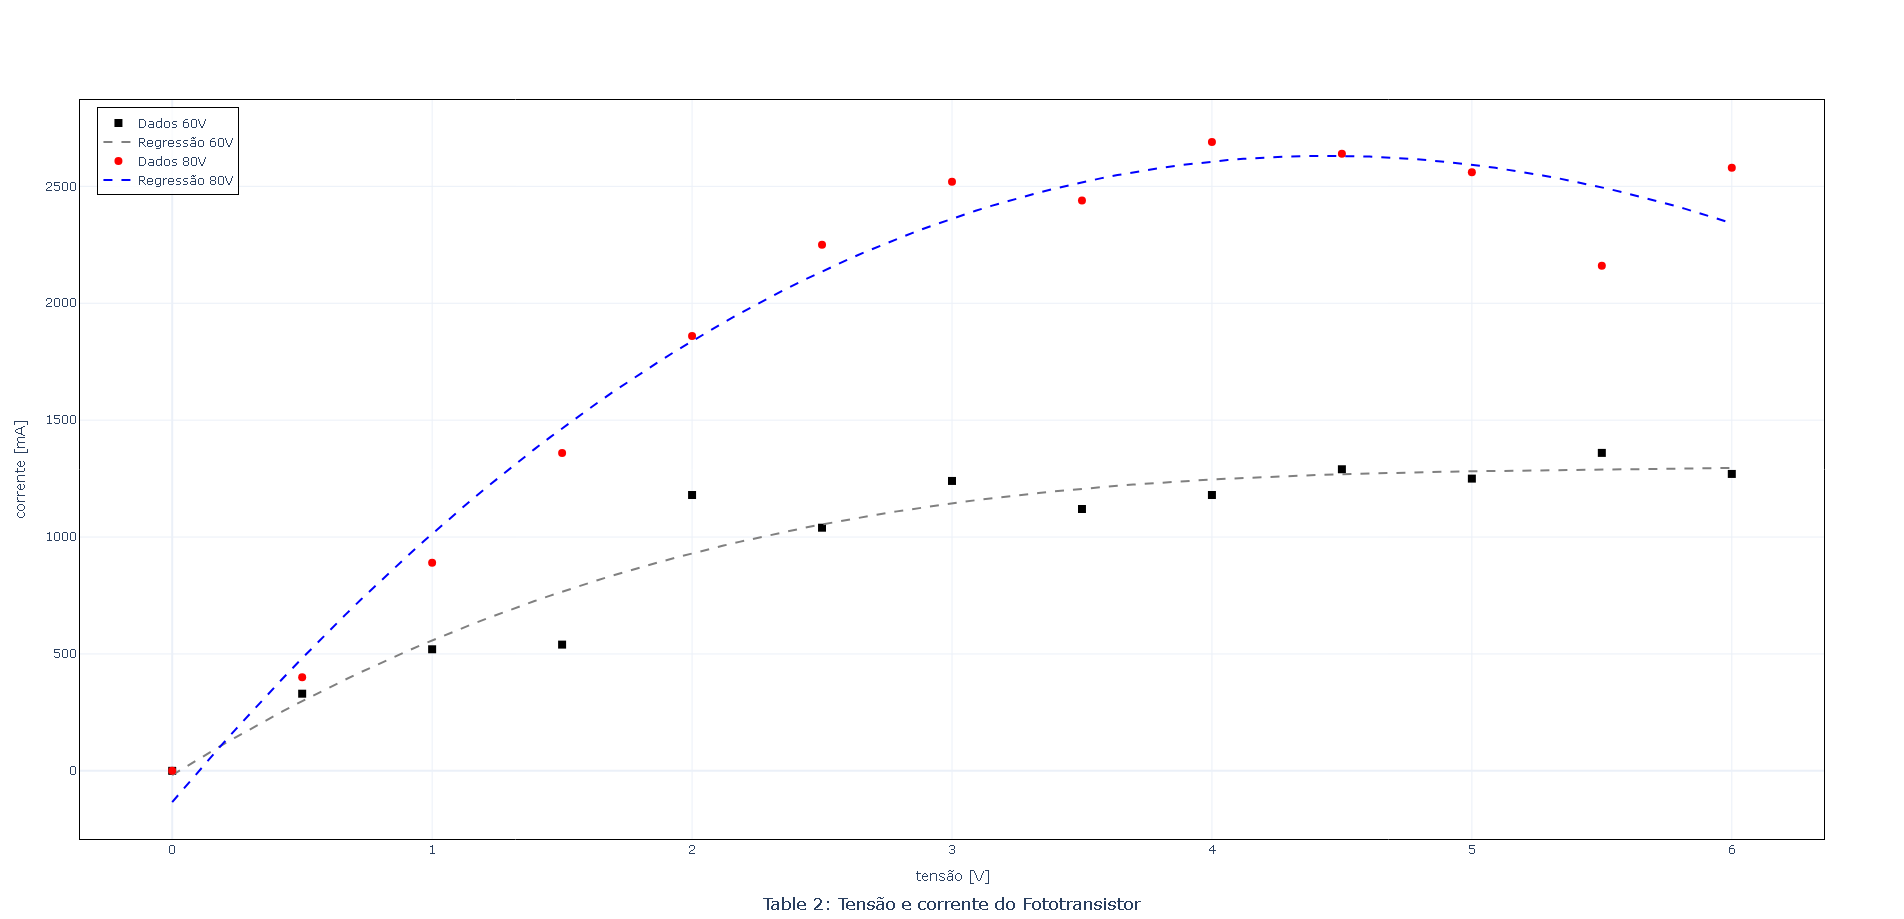
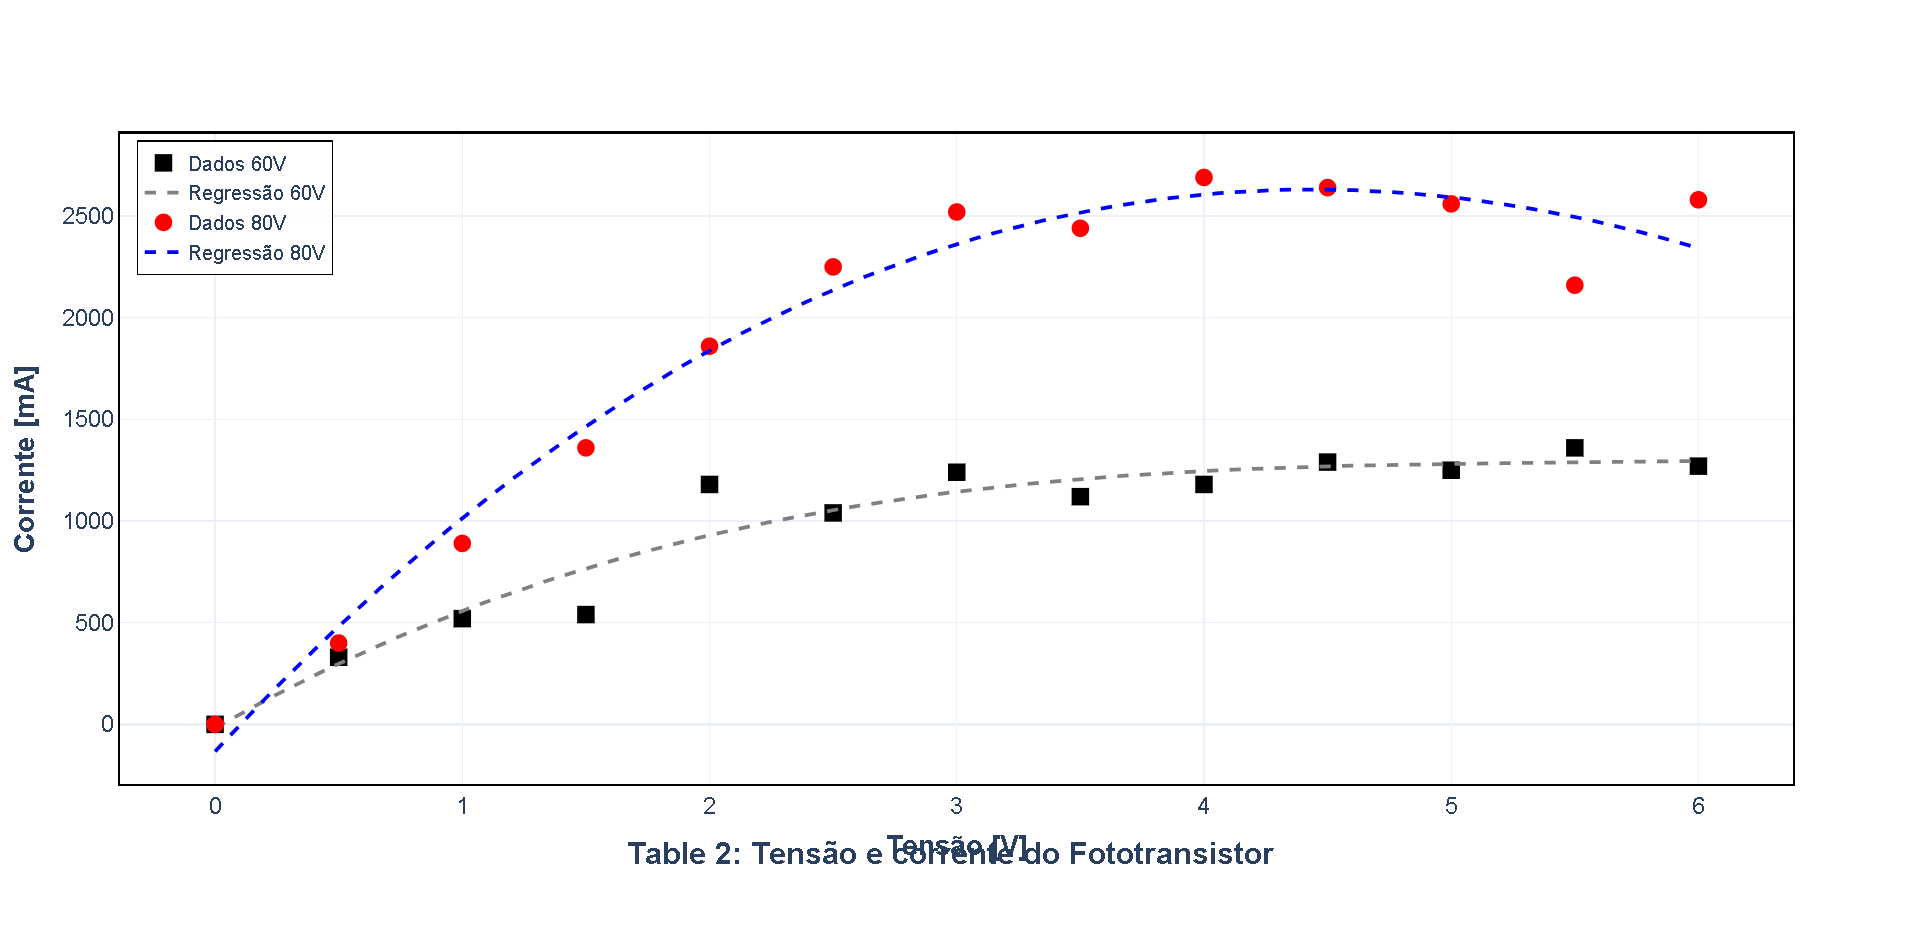
update(graph_scale): update graph scale and scale of elements

diff --git a/R5/tools/graphs.py b/R5/tools/graphs.py
@@ -1,8 +1,14 @@
 import plotly.graph_objects as go
+import numpy as np
 
-# Data transcribed from Table 1
-# Vd = Voltage at the Diode [V]
-# Id = Current (or proportional voltage) [V] as per the table
+# Configurações globais de estilo para facilitar alterações futuras
+FONTE_GERAL = dict(size=18, family="Arial")  # Aumenta todo o texto
+TAMANHO_MARKER = 14     # Aumenta os pontos
+LARGURA_LINHA = 4       # Aumenta a espessura da linha
+
+# ==========================================
+# GRÁFICO 1: Tabela 1 (Fotodiodo)
+# ==========================================
 
 vd = [
     0.0, 0.12, 0.4, 0.6, 0.8, 1.0, 1.2, 1.4, 
@@ -18,161 +24,150 @@ id_values = [
     19.11, 20.78, 22.52, 24.16, 25.82
 ]
 
-# Creating the Figure
-fig = go.Figure()
+fig1 = go.Figure()
 
-# Adding the trace (the line/points)
-fig.add_trace(go.Scatter(
+fig1.add_trace(go.Scatter(
     x=vd, 
     y=id_values, 
-    mode='lines+markers', # Shows both line and dots
+    mode='lines+markers',
     name='Experimental Data',
-    marker=dict(size=8, color='blue'),
-    line=dict(width=2, color='blue')
+    marker=dict(size=TAMANHO_MARKER, color='blue'),
+    line=dict(width=LARGURA_LINHA, color='blue')
 ))
 
-# Updating layout (Titles and Labels)
-fig.update_layout(
-    title='Table 1: Tensão e corrente do Fotodiodo',
-    xaxis_title='V_D [V]',
-    yaxis_title='I_D [V]',
-    template='plotly_white', # A clean white background
-    width=800, 
-    height=600
+fig1.update_layout(
+    title='<b>Table 1: Tensão e corrente do Fotodiodo</b>', # Negrito
+    xaxis_title='<b>V_D [V]</b>',
+    yaxis_title='<b>I_D [V]</b>',
+    template='plotly_white',
+    width=900,  # Aumentei um pouco a largura
+    height=700, # Aumentei um pouco a altura
+    font=FONTE_GERAL # Aplica a fonte maior em tudo
 )
 
-# Show the interactive graph
-fig.show()
+# Bordas mais visíveis nos eixos
+fig1.update_xaxes(showline=True, linewidth=2, linecolor='black', mirror=True)
+fig1.update_yaxes(showline=True, linewidth=2, linecolor='black', mirror=True)
 
-import plotly.graph_objects as go
-import numpy as np
+fig1.show()
 
-# --- 1. Dados da Tabela 2 ---
+
+# ==========================================
+# GRÁFICO 2: Tabela 2 (Fototransistor)
+# ==========================================
+
 v_fonte = np.array([0.0, 0.5, 1.0, 1.5, 2.0, 2.5, 3.0, 3.5, 4.0, 4.5, 5.0, 5.5, 6.0])
 
 # Corrente original em [A]
 id_60v_a = np.array([0.0, 0.33, 0.52, 0.54, 1.18, 1.04, 1.24, 1.12, 1.18, 1.29, 1.25, 1.36, 1.27])
 id_80v_a = np.array([0.0, 0.4, 0.89, 1.36, 1.86, 2.25, 2.52, 2.44, 2.69, 2.64, 2.56, 2.16, 2.58])
 
-# Conversão para [mA] (x1000)
+# Conversão para [mA]
 id_60v_ma = id_60v_a * 1000
 id_80v_ma = id_80v_a * 1000
 
-# --- 2. Cálculo da Regressão (Polinomial de 3º Grau) ---
-# Cria um eixo X mais "fino" (com mais pontos) para que a linha da regressão fique suave
+# Regressão
 x_suave = np.linspace(v_fonte.min(), v_fonte.max(), 100)
 
-# Regressão para 60V
-coefs_60 = np.polyfit(v_fonte, id_60v_ma, 3) # O número 3 indica o grau do polinômio
+coefs_60 = np.polyfit(v_fonte, id_60v_ma, 3)
 poly_60 = np.poly1d(coefs_60)
 y_regressao_60 = poly_60(x_suave)
 
-# Regressão para 80V
 coefs_80 = np.polyfit(v_fonte, id_80v_ma, 3)
 poly_80 = np.poly1d(coefs_80)
 y_regressao_80 = poly_80(x_suave)
 
-# --- 3. Plotagem ---
-fig = go.Figure()
+fig2 = go.Figure()
 
 # --- Caso 60V ---
-# Pontos (Scatter)
-fig.add_trace(go.Scatter(
+fig2.add_trace(go.Scatter(
     x=v_fonte, y=id_60v_ma,
     mode='markers',
     name='Dados 60V',
-    marker=dict(symbol='square', color='black', size=8)
+    marker=dict(symbol='square', color='black', size=TAMANHO_MARKER)
 ))
-# Linha de Regressão
-fig.add_trace(go.Scatter(
+fig2.add_trace(go.Scatter(
     x=x_suave, y=y_regressao_60,
     mode='lines',
     name='Regressão 60V',
-    line=dict(color='gray', width=2, dash='dash') # Linha tracejada cinza
+    line=dict(color='gray', width=3, dash='dash') # Tracejada um pouco mais fina que a sólida
 ))
 
 # --- Caso 80V ---
-# Pontos (Scatter)
-fig.add_trace(go.Scatter(
+fig2.add_trace(go.Scatter(
     x=v_fonte, y=id_80v_ma,
     mode='markers',
     name='Dados 80V',
-    marker=dict(symbol='circle', color='red', size=8)
+    marker=dict(symbol='circle', color='red', size=TAMANHO_MARKER)
 ))
-# Linha de Regressão
-fig.add_trace(go.Scatter(
+fig2.add_trace(go.Scatter(
     x=x_suave, y=y_regressao_80,
     mode='lines',
     name='Regressão 80V',
-    line=dict(color='blue', width=2, dash='dash') # Linha tracejada salmão
+    line=dict(color='blue', width=3, dash='dash')
 ))
 
-# --- 4. Layout ---
-fig.update_layout(
+fig2.update_layout(
     title={
-        'text': 'Table 2: Tensão e corrente do Fototransistor',
-        'y': 0.01, 'x': 0.5, 'xanchor': 'center', 'yanchor': 'bottom'
+        'text': '<b>Table 2: Tensão e corrente do Fototransistor</b>',
+        'y': 0.05, 'x': 0.5, 'xanchor': 'center', 'yanchor': 'bottom'
     },
-    xaxis_title='tensão [V]',
-    yaxis_title='corrente [mA]',
+    xaxis_title='<b>Tensão [V]</b>',
+    yaxis_title='<b>Corrente [mA]</b>',
     template='plotly_white',
+    font=FONTE_GERAL,
     legend=dict(
         yanchor="top", y=0.99,
-        xanchor="left", x=0.01, # Movi a legenda para a esquerda para não cobrir o gráfico
-        bgcolor="rgba(255, 255, 255, 0.8)",
-        bordercolor="Black", borderwidth=1
+        xanchor="left", x=0.01,
+        bgcolor="rgba(255, 255, 255, 0.9)",
+        bordercolor="Black", borderwidth=1,
+        font=dict(size=16) # Legenda ligeiramente menor que o título, se desejar
     ),
-    margin=dict(b=80)
+    margin=dict(b=100) # Margem inferior maior por causa do título embaixo
 )
 
-fig.update_xaxes(showline=True, linewidth=1, linecolor='black', mirror=True)
-fig.update_yaxes(showline=True, linewidth=1, linecolor='black', mirror=True)
+fig2.update_xaxes(showline=True, linewidth=2, linecolor='black', mirror=True)
+fig2.update_yaxes(showline=True, linewidth=2, linecolor='black', mirror=True)
 
-fig.show()
+fig2.show()
 
-# --- 1. Dados transcritos da Tabela 3 (Apenas parte numérica) ---
-# Entrada = Tensão CA (Vca) aplicada à lâmpada/fonte
+
+# ==========================================
+# GRÁFICO 3: Tabela 3 (Fotocélulas)
+# ==========================================
+
 v_entrada = np.array([60.0, 80.0, 100.0, 120.0, 140.0, 160.0, 180.0])
-
-# I_out = Corrente de Saída (Icc) [A]
-# Nota: Valores conforme imagem. Se forem microamperes na realidade, o formato do gráfico é o mesmo.
 i_out = np.array([21.8, 46.7, 100.4, 163.0, 260, 350, 490])
 
-# --- 2. Cálculo da Regressão (Polinomial de 2º Grau) ---
-# Escolhi grau 2 pois a relação Luz x Tensão geralmente não é linear
 x_suave = np.linspace(v_entrada.min(), v_entrada.max(), 100)
-
-coefs = np.polyfit(v_entrada, i_out, 2) # Grau 2
+coefs = np.polyfit(v_entrada, i_out, 2)
 poly_eq = np.poly1d(coefs)
 y_regressao = poly_eq(x_suave)
 
-# --- 3. Criação do Gráfico ---
-fig = go.Figure()
+fig3 = go.Figure()
 
-# Pontos Experimentais
-fig.add_trace(go.Scatter(
+fig3.add_trace(go.Scatter(
     x=v_entrada, 
     y=i_out,
     mode='markers',
     name='Dados Experimentais',
-    marker=dict(size=10, color='darkblue', symbol='circle')
+    marker=dict(size=15, color='darkblue', symbol='circle') # Ainda maior
 ))
 
-# Linha de Tendência (Regressão)
-fig.add_trace(go.Scatter(
+fig3.add_trace(go.Scatter(
     x=x_suave, 
     y=y_regressao,
     mode='lines',
     name='Ajuste Polinomial',
-    line=dict(color='red', width=2, dash='dash')
+    line=dict(color='red', width=LARGURA_LINHA, dash='dash')
 ))
 
-# --- 4. Configuração do Layout ---
-fig.update_layout(
-    title='Table 3: Tensão e corrente das Fotocélulas',
-    xaxis_title='Tensão de Entrada (Vca) [V]',
-    yaxis_title='Corrente de Saída (Icc) [A]',
+fig3.update_layout(
+    title='<b>Table 3: Tensão e corrente das Fotocélulas</b>',
+    xaxis_title='<b>Tensão de Entrada (Vca) [V]</b>',
+    yaxis_title='<b>Corrente de Saída (Icc) [A]</b>',
     template='plotly_white',
+    font=FONTE_GERAL,
     legend=dict(
         x=0.02, y=0.98,
         bgcolor='rgba(255,255,255,0.8)',
@@ -180,8 +175,7 @@ fig.update_layout(
     )
 )
 
-# Adicionar grades e bordas
-fig.update_xaxes(showgrid=True, gridwidth=1, gridcolor='lightgray', showline=True, linewidth=1, linecolor='black', mirror=True)
-fig.update_yaxes(showgrid=True, gridwidth=1, gridcolor='lightgray', showline=True, linewidth=1, linecolor='black', mirror=True)
+fig3.update_xaxes(showgrid=True, gridwidth=1, gridcolor='lightgray', showline=True, linewidth=2, linecolor='black', mirror=True)
+fig3.update_yaxes(showgrid=True, gridwidth=1, gridcolor='lightgray', showline=True, linewidth=2, linecolor='black', mirror=True)
 
-fig.show()
+fig3.show()
